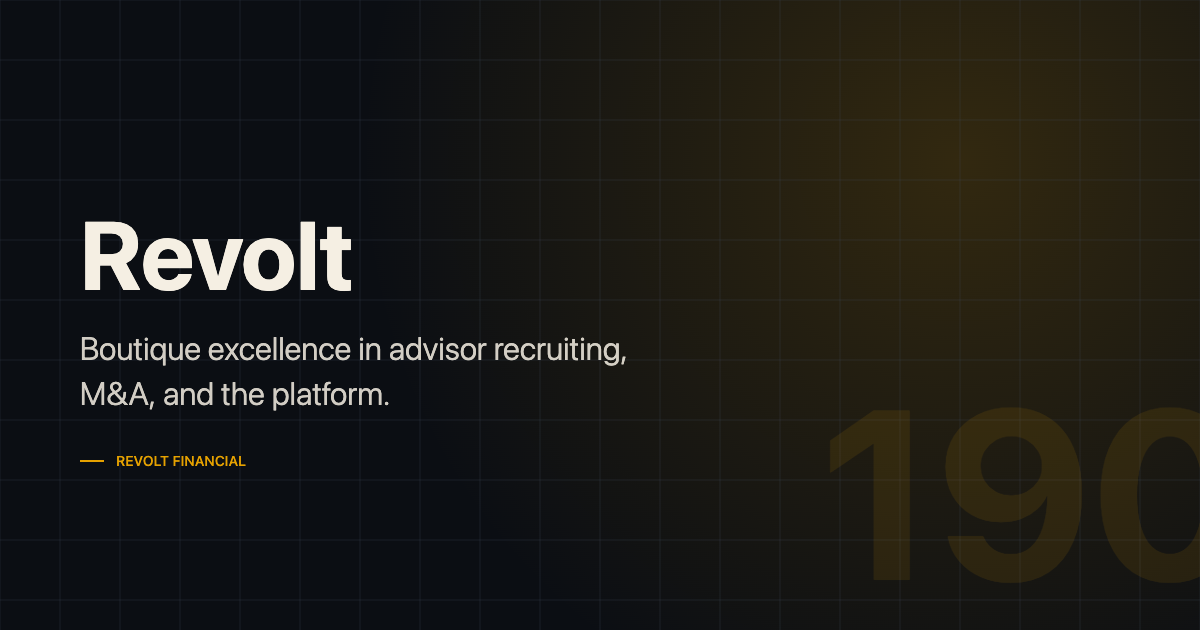
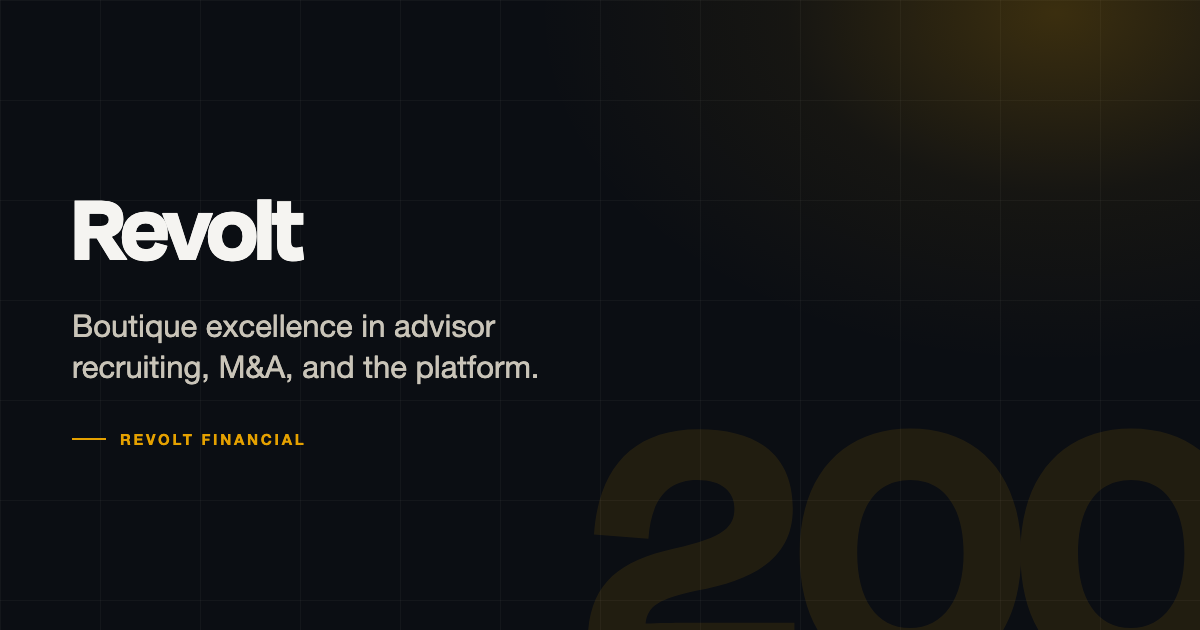
Fix 190 -> 200 in OG share image and preview page
Regenerate og-image.png with the correct 200 backdrop numeral (was
190, flagged in a share preview) and update remaining 190 firm-count
references in chrome-preview.html.

diff --git a/chrome-preview.html b/chrome-preview.html
@@ -119,7 +119,7 @@
         <div class="type-row"><span class="label">.h1</span><span class="h1">You have more options than you think.</span></div>
         <div class="type-row"><span class="label">.h2</span><span class="h2">Most advisors are shown three firms.</span></div>
         <div class="type-row"><span class="label">.h3</span><span class="h3">A principal in every meeting.</span></div>
-        <div class="type-row"><span class="label">.lead</span><span class="lead">190+ firm contracts. A principal in every meeting. Every deal structured for you.</span></div>
+        <div class="type-row"><span class="label">.lead</span><span class="lead">200+ firm contracts. A principal in every meeting. Every deal structured for you.</span></div>
         <div class="type-row"><span class="label">.body</span><span class="body">The recruiting industry built itself on volume. Generic outreach. Three or four firm partners.</span></div>
         <div class="type-row"><span class="label">.small</span><span class="small">Recruited assets, 2024.</span></div>
         <div class="type-row"><span class="label">.eyebrow</span><span class="eyebrow"><span class="rule"></span>Section label</span></div>
@@ -195,7 +195,7 @@
         <a class="tile" href="#">
           <span class="tile__num">01</span>
           <span class="tile__title">Advisor Recruiting</span>
-          <span class="tile__desc">The deepest contract network in the industry. 190+ firm relationships.</span>
+          <span class="tile__desc">The deepest contract network in the industry. 200+ firm relationships.</span>
         </a>
         <a class="tile" href="#">
           <span class="tile__num">02</span>
@@ -210,7 +210,7 @@
         <a class="tile" href="#">
           <span class="tile__num">04</span>
           <span class="tile__title">Platform</span>
-          <span class="tile__desc">Coming 2026. Upload once. See what 190 firms would actually offer.</span>
+          <span class="tile__desc">Coming 2026. Upload once. See what 200 firms would actually offer.</span>
         </a>
       </div>
 
@@ -218,7 +218,7 @@
       <div style="margin-top: 24px;">
         <div class="compare__row">
           <div class="industry">3 to 5 firm contracts</div>
-          <div class="revolt">190+ firm contracts, audited annually</div>
+          <div class="revolt">200+ firm contracts, audited annually</div>
         </div>
         <div class="compare__row">
           <div class="industry">Phone calls and email blasts</div>
@@ -268,7 +268,7 @@
       <h2 class="h2" style="margin-top: 24px;">Counters fire on intersection.</h2>
       <div class="grid-4" style="margin-top: 64px;">
         <div class="stat" data-reveal data-stagger="1"><span class="stat__figure" data-counter="$84M">$84M</span><span class="stat__label">Recruited assets, 2024</span></div>
-        <div class="stat" data-reveal data-stagger="2"><span class="stat__figure" data-counter="190+">190+</span><span class="stat__label">Firm contracts</span></div>
+        <div class="stat" data-reveal data-stagger="2"><span class="stat__figure" data-counter="200+">200+</span><span class="stat__label">Firm contracts</span></div>
         <div class="stat" data-reveal data-stagger="3"><span class="stat__figure" data-counter="40">40</span><span class="stat__label">Negotiation points per deal</span></div>
         <div class="stat" data-reveal data-stagger="4"><span class="stat__figure" data-counter="#1">#1</span><span class="stat__label">Nationally, last 24 months</span></div>
       </div>
@@ -276,9 +276,9 @@
 
     <!-- ===== Backdrop numeral demo ===== -->
     <section class="preview__section bg-tan" style="position: relative;">
-      <span class="backdrop-num" style="top: -40px; right: -40px;">190</span>
+      <span class="backdrop-num" style="top: -40px; right: -40px;">200</span>
       <span class="eyebrow"><span class="rule"></span>07 · Backdrop numeral</span>
-      <h2 class="h2" style="margin-top: 24px; max-width: 24ch; position: relative;">Most advisors are shown three firms. We work with one hundred and ninety.</h2>
+      <h2 class="h2" style="margin-top: 24px; max-width: 24ch; position: relative;">Most advisors are shown three firms. We work with two hundred.</h2>
     </section>
 
   </main>
@@ -290,7 +290,7 @@
         <div class="footer__col">
           <span class="footer__mark"><img src="assets/images/revolt-logo-stacked.png" alt="Revolt"></span>
           <p class="small" style="margin-top: 24px; max-width: 36ch; color: var(--cream-80);">Boutique excellence.</p>
-          <p class="small" style="margin-top: 12px; max-width: 42ch; color: var(--cream-60);">A principal in every meeting. 190+ firm contracts. Discreet by default.</p>
+          <p class="small" style="margin-top: 12px; max-width: 42ch; color: var(--cream-60);">A principal in every meeting. 200+ firm contracts. Discreet by default.</p>
         </div>
         <div class="footer__col">
           <h4>Site</h4>
